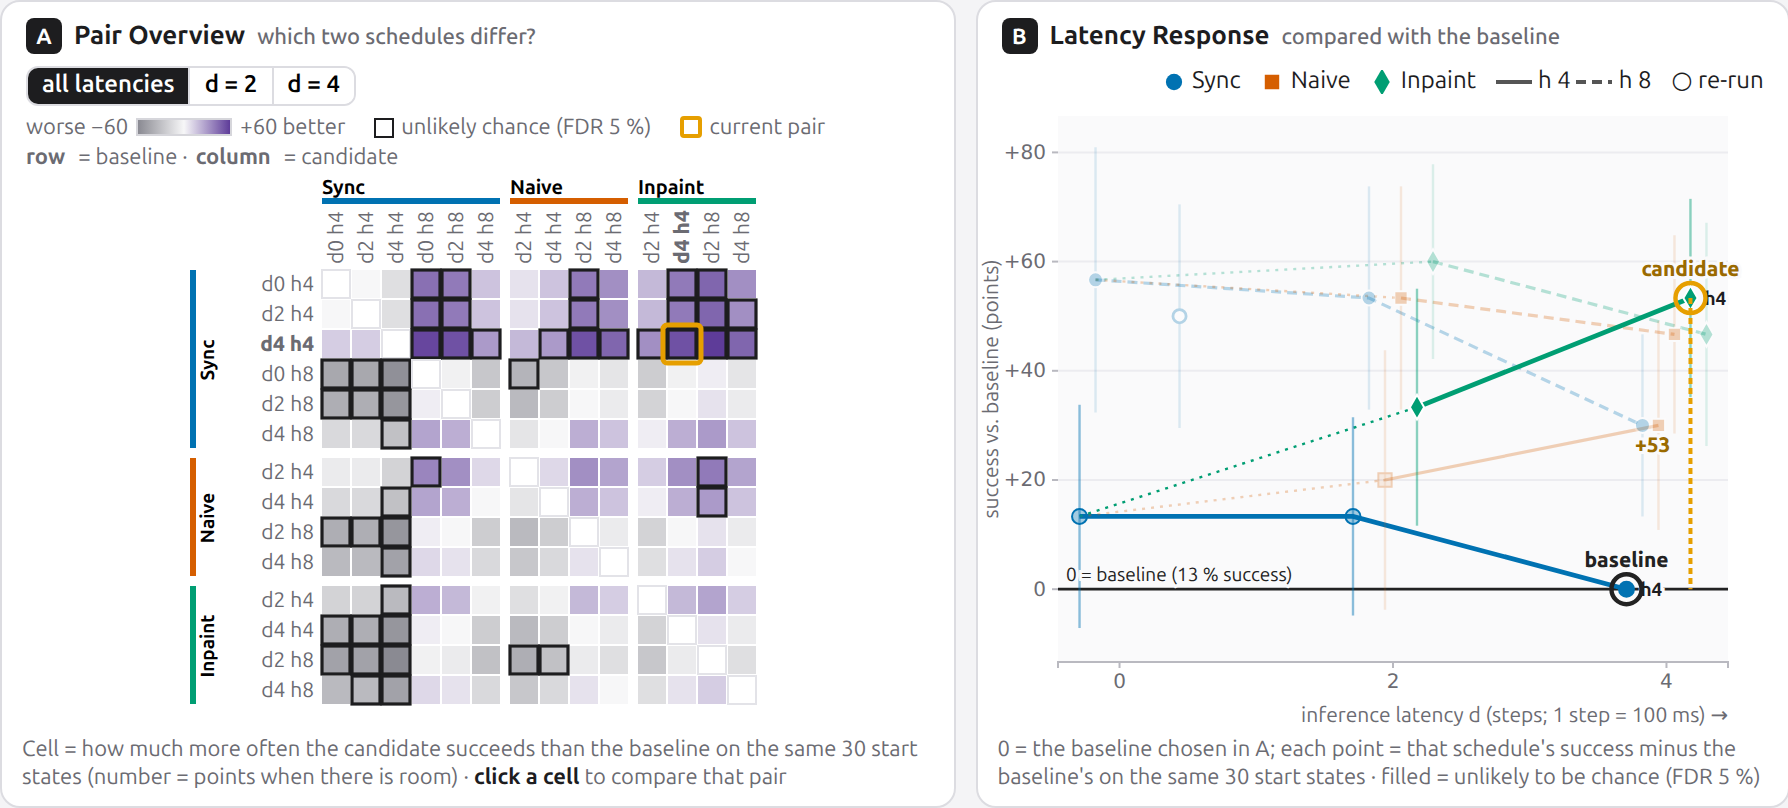
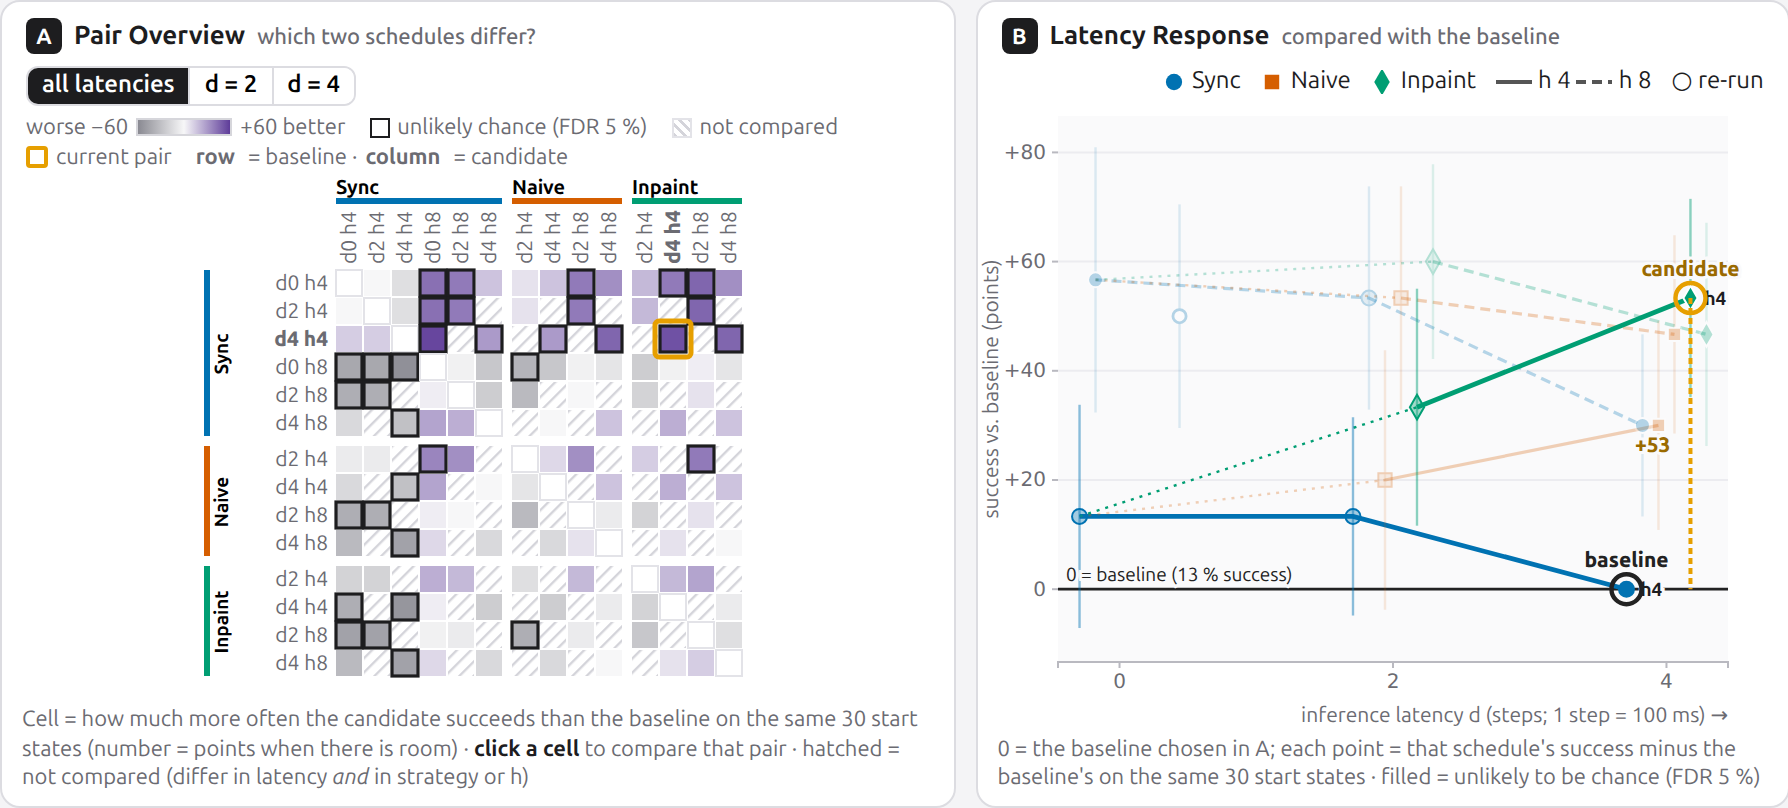
A: compare only pairs with one reading (same latency, against d = 0, or the same strategy and h at another latency); the 30 pairs that differ in latency and in strategy or h are hatched and not clickable, the FDR family is the 61 comparable pairs, and choosing a schedule at another latency moves the

diff --git a/src/js/views/pairs.js b/src/js/views/pairs.js
@@ -6,7 +6,7 @@
 // for success (binary, paired) an exact McNemar test on the start states that flip, p < 0.05; for the
 // cost questions the 95 % interval of the paired difference excludes 0. Click a cell = load that pair.
 import { state, update, bus } from "../state.js";
-import { DATA, STRATEGIES, HORIZONS, LATENCIES, label, aggregate } from "../data.js";
+import { DATA, STRATEGIES, HORIZONS, LATENCIES, label, aggregate, comparable } from "../data.js";
 import { COLOR, STRAT_COLOR, METRICS, fmtMetric, showTip, hideTip, size } from "../util.js";
 
 const BETTER = "#5e3c99", WORSE = "#8a8a92", MID = "#f7f7f8";
@@ -17,6 +17,9 @@ let root, svg, noteSel;
 export function initPairs() {
   root = d3.select("#pairs");
   svg = root.append("svg");
+  // hatch for the pairs that are not compared (differ in latency and in strategy or h)
+  svg.append("defs").append("pattern").attr("id", "nc").attr("patternUnits", "userSpaceOnUse").attr("width", 5).attr("height", 5)
+    .attr("patternTransform", "rotate(45)").append("rect").attr("width", 1.2).attr("height", 5).attr("fill", "#d4d4da");
   noteSel = d3.select("#pairNote");
   // legend in one line above the matrix, so the matrix gets the whole panel
   // "my latency": keep only the schedules at one latency, plus sync d0 as the no-latency reference
@@ -25,12 +28,13 @@ export function initPairs() {
   ctr.append("span").attr("class", "plgwrap");
   seg.selectAll("button").data([null, 2, 4]).join("button").text((d) => (d === null ? "all latencies" : `d = ${d}`))
     .on("click", (ev, d) => update({ dfocus: d }));
-  ctr.select(".plgwrap").html(`<span class="plg" title="candidate − baseline, percentage points of success on the same start states"><span>worse −60</span><span class="ramp"></span><span>+60 better</span>
-    <span class="gap"></span><span class="fr"></span><span title="exact McNemar test on the start states that flip, Benjamini–Hochberg corrected over all 91 pairs (false discovery rate 5 %)">unlikely chance (FDR 5 %)</span>
-    <span class="gap"></span><span class="cu"></span><span>current pair</span></span>
-    <span class="plg"><b>row</b>&nbsp;= baseline · <b>column</b>&nbsp;= candidate</span>`);
+  ctr.select(".plgwrap").html(`<span class="plg" title="candidate − baseline, percentage points of success on the same start states"><span class="it">worse −60 <span class="ramp"></span> +60 better</span>
+    <span class="it"><span class="fr"></span><span class="fam">unlikely chance (FDR 5 %)</span></span>
+    <span class="it" title="the two schedules differ in latency d (which you cannot choose) and also in strategy or h, so a difference could not be attributed to either"><span class="nc"></span>not compared</span>
+    <span class="it"><span class="cu"></span>current pair</span>
+    <span class="it"><b>row</b>&nbsp;= baseline · <b>column</b>&nbsp;= candidate</span></span>`);
   bus.on("change.pairs", (keys) => {
-    if (["task", "ref", "cand", "metric", "brushed", "dfocus"].some((k) => keys.has(k))) render();
+    if (["task", "ref", "cand", "metric", "brushed", "dfocus", "moved"].some((k) => keys.has(k))) render();
   });
   render();
 }
@@ -56,6 +60,7 @@ function render() {
   const cells = [];
   for (const r of S) for (const c of S) {
     if (r.id === c.id) { cells.push({ r, c, diag: true }); continue; }
+    if (!comparable(r.id, c.id)) { cells.push({ r, c, nc: true }); continue; }
     const a = aggregate(c.id, state.metric, seeds, r.id);
     const f = flips(r.id, c.id, seeds);
     cells.push({ r, c, v: a.v, lo: a.lo, hi: a.hi, n: a.n, f, sig: f.sig });
@@ -67,9 +72,10 @@ function render() {
   };
 
   d3.select("#pairControls .dseg").selectAll("button").classed("on", (d) => d === state.dfocus);
-  noteSel.html(seeds
+  d3.select("#pairControls .fam").attr("title", `exact McNemar test on the start states that flip, Benjamini–Hochberg corrected over the ${qValues().size} comparable pairs (false discovery rate 5 %)`);
+  noteSel.html((state.moved ? `<b class="moved">${state.moved}</b>: schedules at different latencies are compared only with the same strategy and h · ` : "") + (seeds
     ? `Cell = success difference on the <b>${seeds.size} start states selected in C</b> · <b>no frames</b>: the selection was made from these outcomes, so testing it again would be circular (Esc clears)`
-    : `Cell = how much more often the candidate succeeds than the baseline on the same ${DATA.seeds.length} start states (number = points when there is room) · <b>click a cell</b> to compare that pair`);
+    : `Cell = how much more often the candidate succeeds than the baseline on the same ${DATA.seeds.length} start states (number = points when there is room) · <b>click a cell</b> to compare that pair · hatched = not compared (differ in latency <i>and</i> in strategy or h)`));
   const { w, h } = size(root.node());
   svg.attr("width", w).attr("height", h);
   const m = { l: 70, t: 50, r: 6, b: 4 };
@@ -106,17 +112,21 @@ function render() {
   // cells
   const sel = svg.selectAll("rect.pc").data(cells, (q) => `${q.r.id}|${q.c.id}`).join("rect").attr("class", "pc")
     .attr("x", (q) => X(q.c.id)).attr("y", (q) => Y(q.r.id)).attr("width", cs - 1).attr("height", cs - 1)
-    .attr("fill", (q) => (q.diag ? "#fff" : col(q.v))).attr("stroke", (q) => (q.sig ? COLOR.ink : q.diag ? "#e3e3e8" : "none"))
-    .attr("stroke-width", (q) => (q.sig ? 1.6 : 1)).style("cursor", (q) => (q.diag ? "default" : "pointer"));
+    .attr("fill", (q) => (q.diag ? "#fff" : q.nc ? "url(#nc)" : col(q.v))).attr("stroke", (q) => (q.sig ? COLOR.ink : q.diag ? "#e3e3e8" : "none"))
+    .attr("stroke-width", (q) => (q.sig ? 1.6 : 1)).style("cursor", (q) => (q.diag || q.nc ? "default" : "pointer"));
   // the value itself, when the cells are big enough to hold it (e.g. with one latency chosen)
   const showNum = cs >= 22;
-  svg.selectAll("text.pv").data(showNum ? cells.filter((q) => !q.diag) : [], (q) => `${q.r.id}|${q.c.id}`).join("text").attr("class", "pv")
+  svg.selectAll("text.pv").data(showNum ? cells.filter((q) => !q.diag && !q.nc) : [], (q) => `${q.r.id}|${q.c.id}`).join("text").attr("class", "pv")
     .attr("pointer-events", "none").attr("x", (q) => X(q.c.id) + (cs - 1) / 2).attr("y", (q) => Y(q.r.id) + (cs - 1) / 2 + 3.5)
     .attr("text-anchor", "middle").attr("font-size", Math.min(11, cs * 0.4)).attr("font-weight", (q) => (q.sig ? 700 : 400))
     .attr("fill", (q) => (Math.abs(q.v) / M > 0.5 ? "#fff" : COLOR.ink))
     .text((q) => { const k = Math.round(q.v * 100); return k > 0 ? `+${k}` : k < 0 ? `−${-k}` : "0"; });
   sel.on("mousemove", (ev, q) => {
     if (q.diag) return;
+    if (q.nc) {
+      showTip(ev, `<b>baseline</b> ${label(q.r.id)}<br><b>candidate</b> ${label(q.c.id)}<br><b>not compared</b>: they differ in latency d, which you cannot choose, and also in ${q.r.s !== q.c.s ? "strategy" : "h"}${q.r.s !== q.c.s && q.r.h !== q.c.h ? " and h" : ""}, so a difference could not be attributed to either.<br><span class="k">compare each with a schedule at its own latency, or B shows both latencies at once</span>`);
+      return;
+    }
     const Mt = METRICS[state.metric];
     const rel = q.f;
     const better = q.v * sign() > 0;
@@ -124,9 +134,9 @@ function render() {
       ${Mt.label}: ${fmtMetric(state.metric, aggregate(q.r.id, state.metric, seeds).v)} → ${fmtMetric(state.metric, aggregate(q.c.id, state.metric, seeds).v)}
       (paired ${fmtMetric(state.metric, q.v, true)}${rel ? "" : `, 95 % interval ${fmtMetric(state.metric, q.lo, true)} … ${fmtMetric(state.metric, q.hi, true)}`})<br>
       ${rel ? `on the same start states: <b>${rel.gain} rescued</b>, <b>${rel.loss} lost</b> of ${rel.n} (McNemar p = ${rel.p < 0.001 ? "< 0.001" : rel.p.toFixed(3)}, corrected q = ${rel.q < 0.001 ? "< 0.001" : rel.q.toFixed(3)}) · chance level (re-run): ${rel.chance} flips<br>` : ""}
-      ${seeds ? "no test on a selection made from the outcomes" : q.sig ? `<b>${better ? "candidate better" : "candidate worse"}, unlikely to be chance</b> (FDR 5 %)` : "difference within chance (after correcting for 91 comparisons)"}<br><span class="k">click = compare this pair in all views</span>`);
+      ${seeds ? "no test on a selection made from the outcomes" : q.sig ? `<b>${better ? "candidate better" : "candidate worse"}, unlikely to be chance</b> (FDR 5 %)` : "difference within chance (after correcting for ${qValues().size} comparisons)"}<br><span class="k">click = compare this pair in all views</span>`);
   }).on("mouseleave", hideTip)
-    .on("click", (ev, q) => { if (!q.diag) { hideTip(); update({ ref: q.r.id, cand: q.c.id }); } });
+    .on("click", (ev, q) => { if (!q.diag && !q.nc) { hideTip(); update({ ref: q.r.id, cand: q.c.id }); } });
 
   // current pair
   const cur = cells.find((q) => q.r.id === state.ref && q.c.id === state.cand);
@@ -137,8 +147,8 @@ function render() {
 
 }
 
-// Every unordered pair of schedules (91 for 14) is one exact McNemar test; the frames use
-// Benjamini–Hochberg q-values over that whole family, so about 1 in 20 framed cells may be a false
+// Every comparable unordered pair of schedules (61 of the 91 for 14, see data.comparable) is one exact
+// McNemar test; the frames use Benjamini–Hochberg q-values over that family, so about 1 in 20 framed cells may be a false
 // discovery instead of 1 in 20 of all cells. Computed once per task on all start states.
 let qCache = { task: null, q: new Map() };
 function qValues() {
@@ -146,6 +156,7 @@ function qValues() {
   const ids = DATA.schedules.filter((x) => !x.replicate).map((x) => x.schedule);
   const tests = [];
   for (let i = 0; i < ids.length; i++) for (let j = i + 1; j < ids.length; j++) {
+    if (!comparable(ids[i], ids[j])) continue;
     const f = rawFlips(ids[i], ids[j], null);
     tests.push({ k: pairKey(ids[i], ids[j]), p: mcnemar(f.gain, f.loss) });
   }
@@ -162,8 +173,9 @@ const pairKey = (a, b) => (a < b ? `${a}|${b}` : `${b}|${a}`);
 // in C (which is chosen by looking at outcomes) no test is claimed: sig = false.
 export function flips(r, c, seeds) {
   const f = rawFlips(r, c, seeds);
-  const q = qValues().get(pairKey(r, c)) ?? 1;
-  return { ...f, q, sig: !seeds && q < 0.05 };
+  const cmp = comparable(r, c);
+  const q = cmp ? qValues().get(pairKey(r, c)) ?? 1 : null;
+  return { ...f, q, comparable: cmp, sig: cmp && !seeds && q < 0.05 };
 }
 
 function rawFlips(r, c, seeds) {

diff --git a/src/js/main.js b/src/js/main.js
@@ -1,5 +1,5 @@
-import { state, update, bus, DEFAULTS } from "./state.js";
-import { DATA, TASKS, loadBase, loadRun, label } from "./data.js";
+import { state, update, bus, DEFAULTS, guards } from "./state.js";
+import { DATA, TASKS, loadBase, loadRun, label, comparable, atLatency } from "./data.js";
 import { METRICS } from "./util.js";
 import { initResponse, resizeResponse } from "./views/response.js";
 import { initPairs, resizePairs } from "./views/pairs.js";
@@ -17,11 +17,33 @@ function firstFlip(ref, cand) {
   return (gain.length > loss.length ? gain : loss)[0] ?? gain[0] ?? DATA.seeds[0];
 }
 
+// Keep the pair comparable (data.comparable): when a new baseline (or candidate) differs from the other
+// side in latency AND in strategy or h, the other side moves to its own strategy and h at the new latency.
+function keepComparable(patch, st) {
+  if (!("ref" in patch) && !("cand" in patch)) return patch;
+  let ref = patch.ref ?? st.ref, cand = patch.cand ?? st.cand, moved = null;
+  if (!comparable(ref, cand)) {
+    const d = (id) => DATA.schedById.get(id).latency;
+    if ("cand" in patch && !("ref" in patch)) { ref = atLatency(ref, d(cand)); moved = `baseline moved to ${label(ref)}`; }
+    else { cand = atLatency(cand, d(ref)); moved = `candidate moved to ${label(cand)}`; }
+  }
+  return { ...patch, ref, cand, moved };
+}
+guards.push(keepComparable);
+
 function fillPickers() {
   const opts = DATA.schedules.map((s) => s.schedule);
   for (const [sel, key] of [["#refSel", "ref"], ["#candSel", "cand"]]) {
-    d3.select(sel).selectAll("option").data(opts, (d) => d).join("option").attr("value", (d) => d).text((d) => label(d));
+    d3.select(sel).selectAll("option").data(opts, (d) => d).join("option").attr("value", (d) => d);
     d3.select(sel).property("value", state[key]);
+  }
+  markPickers();
+}
+// options that are not comparable with the other side say so (choosing one moves the other side)
+function markPickers() {
+  for (const [sel, other] of [["#refSel", state.cand], ["#candSel", state.ref]]) {
+    d3.select(sel).selectAll("option").text((d) => (comparable(d, other) ? label(d) : `${label(d)}  (moves the other side)`))
+      .style("color", (d) => (comparable(d, other) ? null : "#8a8a92"));
   }
 }
 
@@ -54,7 +76,7 @@ function initPickers() {
   bus.on("change.pickers", (keys) => {
     if (keys.has("ref")) d3.select("#refSel").property("value", state.ref);
     if (keys.has("cand")) d3.select("#candSel").property("value", state.cand);
-    if (keys.has("ref") || keys.has("cand")) { loadRun(state.ref); loadRun(state.cand); }
+    if (keys.has("ref") || keys.has("cand")) { loadRun(state.ref); loadRun(state.cand); markPickers(); }
   });
   d3.select("#swapBtn").on("click", () => update({ ref: state.cand, cand: state.ref }));
   d3.select("#resetBtn").on("click", () => {
@@ -95,6 +117,7 @@ function applyParams() {
   if (p.has("sel")) patch.brushed = new Set(p.get("sel").split(",").map(Number));
   for (const k of ["ref", "cand"]) if (patch[k] && !DATA.schedById.has(patch[k])) delete patch[k];
   Object.assign(state, patch);
+  if (!comparable(state.ref, state.cand)) state.cand = atLatency(state.cand, DATA.schedById.get(state.ref).latency);
 }
 
 async function main() {

diff --git a/src/js/data.js b/src/js/data.js
@@ -36,6 +36,25 @@ export function shortLabel(id) {
   return s ? `${s.strategy} d${s.latency} h${s.horizon}${s.replicate ? " rep" : ""}` : id;
 }
 
+// Which pairs can be compared at all. The latency d is set by the hardware and the model, not chosen
+// by the user, so two schedules are compared only when the difference has one reading:
+//   same d (what should I run at my latency?), one of them at d = 0 (how far from no latency?), or
+//   same strategy and h, only d differs (what does more latency cost?).
+// A pair that differs in d AND in strategy or h mixes the two causes and is not compared (30 of the
+// 91 pairs). The rule is fixed by the design, not by any outcome.
+export function comparable(a, b) {
+  const A = DATA.schedById.get(a), B = DATA.schedById.get(b);
+  if (!A || !B) return true;
+  return A.latency === B.latency || A.latency === 0 || B.latency === 0
+    || (A.strategy === B.strategy && A.horizon === B.horizon);
+}
+// the same strategy and horizon as id, at latency d
+export function atLatency(id, d) {
+  const s = DATA.schedById.get(id);
+  const k = s && `${s.strategy}_d${d}_h${s.horizon}`;
+  return k && DATA.schedById.has(k) ? k : id;
+}
+
 export async function loadBase(task = "pusht") {
   const dir = TASKS[task].dir;
   const [eps, sch] = await Promise.all([d3.csv(`${dir}episodes.csv`), d3.json(`${dir}schedules.json`)]);

diff --git a/src/js/views/response.js b/src/js/views/response.js
@@ -180,7 +180,8 @@ function tipHtml(p) {
   if (p.id === state.ref) html += `<br><b>this is the baseline</b> (the zero line)`;
   else {
     html += `<br><span class="k">vs baseline:</span> <b>${pts100(p.v)} points</b> <span class="k">[${pts100(p.lo)}, ${pts100(p.hi)}], paired</span>`;
-    if (p.f) html += `<br>${p.f.gain} rescued, ${p.f.loss} lost (McNemar p ${p.f.p < 0.001 ? "< 0.001" : `= ${p.f.p.toFixed(3)}`}, corrected q ${p.f.q < 0.001 ? "< 0.001" : `= ${p.f.q.toFixed(3)}`}) · <b>${state.brushed ? "no test on a selection made from the outcomes" : p.sig ? "unlikely to be chance" : "within chance"}</b>`;
+    if (p.f && !p.f.comparable) html += `<br>${p.f.gain} rescued, ${p.f.loss} lost · <b>not tested</b>: differs from the baseline in latency and in strategy or h (read it along its own line)`;
+    else if (p.f) html += `<br>${p.f.gain} rescued, ${p.f.loss} lost (McNemar p ${p.f.p < 0.001 ? "< 0.001" : `= ${p.f.p.toFixed(3)}`}, corrected q ${p.f.q < 0.001 ? "< 0.001" : `= ${p.f.q.toFixed(3)}`}) · <b>${state.brushed ? "no test on a selection made from the outcomes" : p.sig ? "unlikely to be chance" : "within chance"}</b>`;
   }
   if (p.strat !== "sync" && p.d === 0) html += `<br><span class="k">${missingReason(p.strat, 0, p.h)}</span>`;
   return `${html}<br><span class="k">click = candidate · shift-click = baseline</span>`;

diff --git a/src/css/style.css b/src/css/style.css
@@ -129,4 +129,8 @@ button.on { background: var(--ink); color: #fff; border-color: var(--ink); }
 .controls .plg .ramp { width: 48px; height: 9px; border: 1px solid #d6d6db; background: linear-gradient(90deg, #8a8a92, #f7f7f8, #5e3c99); }
 .controls .plg .fr { width: 10px; height: 10px; border: 1.6px solid var(--ink); background: #fff; }
 .controls .plg .cu { width: 11px; height: 11px; border: 2.5px solid var(--cand); border-radius: 2px; }
+.controls .plg .nc { width: 10px; height: 10px; background: repeating-linear-gradient(45deg, #d4d4da 0 1.2px, #fff 1.2px 3.5px); border: 1px solid #e3e3e8; }
+.note .moved { color: var(--cand); }
 .controls .plg .gap { width: 6px; }
+.controls .plg { flex-wrap: wrap; column-gap: 12px; row-gap: 2px; }
+.controls .plg .it { display: inline-flex; align-items: center; gap: 4px; white-space: nowrap; }

diff --git a/src/js/state.js b/src/js/state.js
@@ -12,12 +12,17 @@ export const DEFAULTS = {
   brushed: null,           // Set of seeds selected in B (cross-filters A and B)
   hoverSeed: null,
   hoverChunk: null,        // {which: "ref"|"cand", id}
+  moved: null,             // note shown in A when the other side of the pair was moved to stay comparable
 };
 
 export const state = { ...DEFAULTS };
 export const bus = d3.dispatch("change");
 
+// guards rewrite a patch before it is applied (e.g. keep baseline and candidate comparable)
+export const guards = [];
+
 export function update(patch) {
+  for (const g of guards) patch = g(patch, state);
   const keys = Object.keys(patch).filter((k) => state[k] !== patch[k]);
   if (!keys.length) return;
   Object.assign(state, patch);

diff --git a/scripts/ui_test.py b/scripts/ui_test.py
@@ -43,12 +43,12 @@ with sync_playwright() as p:
     ok("pair overview frames pairs whose paired difference is unlikely to be chance",
        pg.evaluate("[...document.querySelectorAll('#pairs rect.pc')].filter(r=>r.getAttribute('stroke')==='#1d1d1f').length") > 0)
     cell = pg.evaluate("""(()=>{const c=[...document.querySelectorAll('#pairs rect.pc')].map(r=>d3.select(r).datum())
-      .findIndex(q=>!q.diag && q.r.id==='sync_d2_h8' && q.c.id==='naive_d4_h8'); return c;})()""")
+      .findIndex(q=>!q.diag && q.r.id==='sync_d4_h8' && q.c.id==='naive_d4_h8'); return c;})()""")
     pg.locator("#pairs rect.pc").nth(cell).hover(force=True)
     ok("pair overview tooltip gives rescued / lost start states and the chance level",
        pg.is_visible("#tooltip") and "rescued" in pg.inner_text("#tooltip") and "chance" in pg.inner_text("#tooltip"))
     pg.locator("#pairs rect.pc").nth(cell).click(force=True)
-    ok("clicking a cell sets baseline (row) and candidate (column)", S("ref") == "sync_d2_h8" and S("cand") == "naive_d4_h8")
+    ok("clicking a cell sets baseline (row) and candidate (column)", S("ref") == "sync_d4_h8" and S("cand") == "naive_d4_h8")
     ok("the selected pair is marked in the overview", pg.locator("#pairs rect.cur").count() == 1)
     # "my latency": only the schedules at d = 4 (+ sync d0 reference), values printed in the cells
     pg.click("#pairControls .dseg button:has-text('d = 4')"); pg.wait_for_timeout(300)
@@ -58,7 +58,15 @@ with sync_playwright() as p:
     pg.click("#pairControls .dseg button:has-text('all latencies')"); pg.wait_for_timeout(300)
     ok("A back to all latencies", S("dfocus") is None and pg.locator("#pairs rect.pc").count() == 196)
     nfr = pg.evaluate("[...document.querySelectorAll('#pairs rect.pc')].filter(r=>r.getAttribute('stroke')==='#1d1d1f').length")
-    ok("A frames are corrected for 91 comparisons (FDR): 48 framed ordered cells in PushT, not 64", nfr == 48)
+    ok("A frames are corrected over the 61 comparable pairs (FDR): 34 framed ordered cells in PushT (17 pairs)", nfr == 34)
+    nnc = pg.evaluate("[...document.querySelectorAll('#pairs rect.pc')].filter(r=>d3.select(r).datum().nc).length")
+    ok("A hatches the 30 pairs that differ in latency and in strategy or h (60 ordered cells), not clickable", nnc == 60)
+    pg.evaluate("window.LagLens.update({ref:'sync_d2_h4', cand:'sync_d2_h4'})"); pg.evaluate("window.LagLens.update({cand:'inpaint_d4_h8'})"); pg.wait_for_timeout(200)
+    ok("choosing a candidate at another latency moves the baseline to its strategy and h at that latency (and says so)",
+       S("ref") == "sync_d4_h4" and S("cand") == "inpaint_d4_h8" and "baseline moved" in pg.inner_text("#pairNote"))
+    pg.evaluate("window.LagLens.update({ref:'naive_d2_h8'})"); pg.wait_for_timeout(200)
+    ok("choosing a baseline at another latency moves the candidate", S("cand") == "inpaint_d2_h8" and "candidate moved" in pg.inner_text("#pairNote"))
+    pg.evaluate("window.LagLens.update({ref:'sync_d4_h8', cand:'naive_d4_h8'})"); pg.wait_for_timeout(200)
     pg.wait_for_timeout(300)
     # B follows A: 0 = the chosen baseline, every schedule re-compared against it
     zero = lambda: pg.evaluate("[...document.querySelectorAll('#response g.pm')].map(g=>d3.select(g).datum()).find(p=>p.id===window.LagLens.state.ref).v")
@@ -66,7 +74,7 @@ with sync_playwright() as p:
     v_before = pg.evaluate("d3.select([...document.querySelectorAll('#response g.pm')].find(g=>d3.select(g).datum().id==='inpaint_d4_h4')).datum().v")
     pg.locator("#pairs text.rowL").nth(0).click(force=True)
     v_after = pg.evaluate("d3.select([...document.querySelectorAll('#response g.pm')].find(g=>d3.select(g).datum().id==='inpaint_d4_h4')).datum().v")
-    ok("a row label in A sets only the baseline, and B's values change with it", S("cand") == "naive_d4_h8" and S("ref") != "sync_d2_h8" and v_before != v_after)
+    ok("a row label in A sets only the baseline, and B's values change with it", S("cand") == "naive_d4_h8" and S("ref") != "sync_d4_h8" and v_before != v_after)
     pg.locator("#pairs rect.pc").nth(cell).click(force=True)
     ok("B marks the candidate's distance to the baseline", pg.locator("#response g.rg").count() >= 1)
     n = {sel: pg.locator(sel).count() for sel in ["#response g.pm", "#seedtable rect.c", "#seedtable g.db", "#workspace g.wp", "#pairs rect.pc", "#timeline .bars rect", "#timeline .think rect"]}
